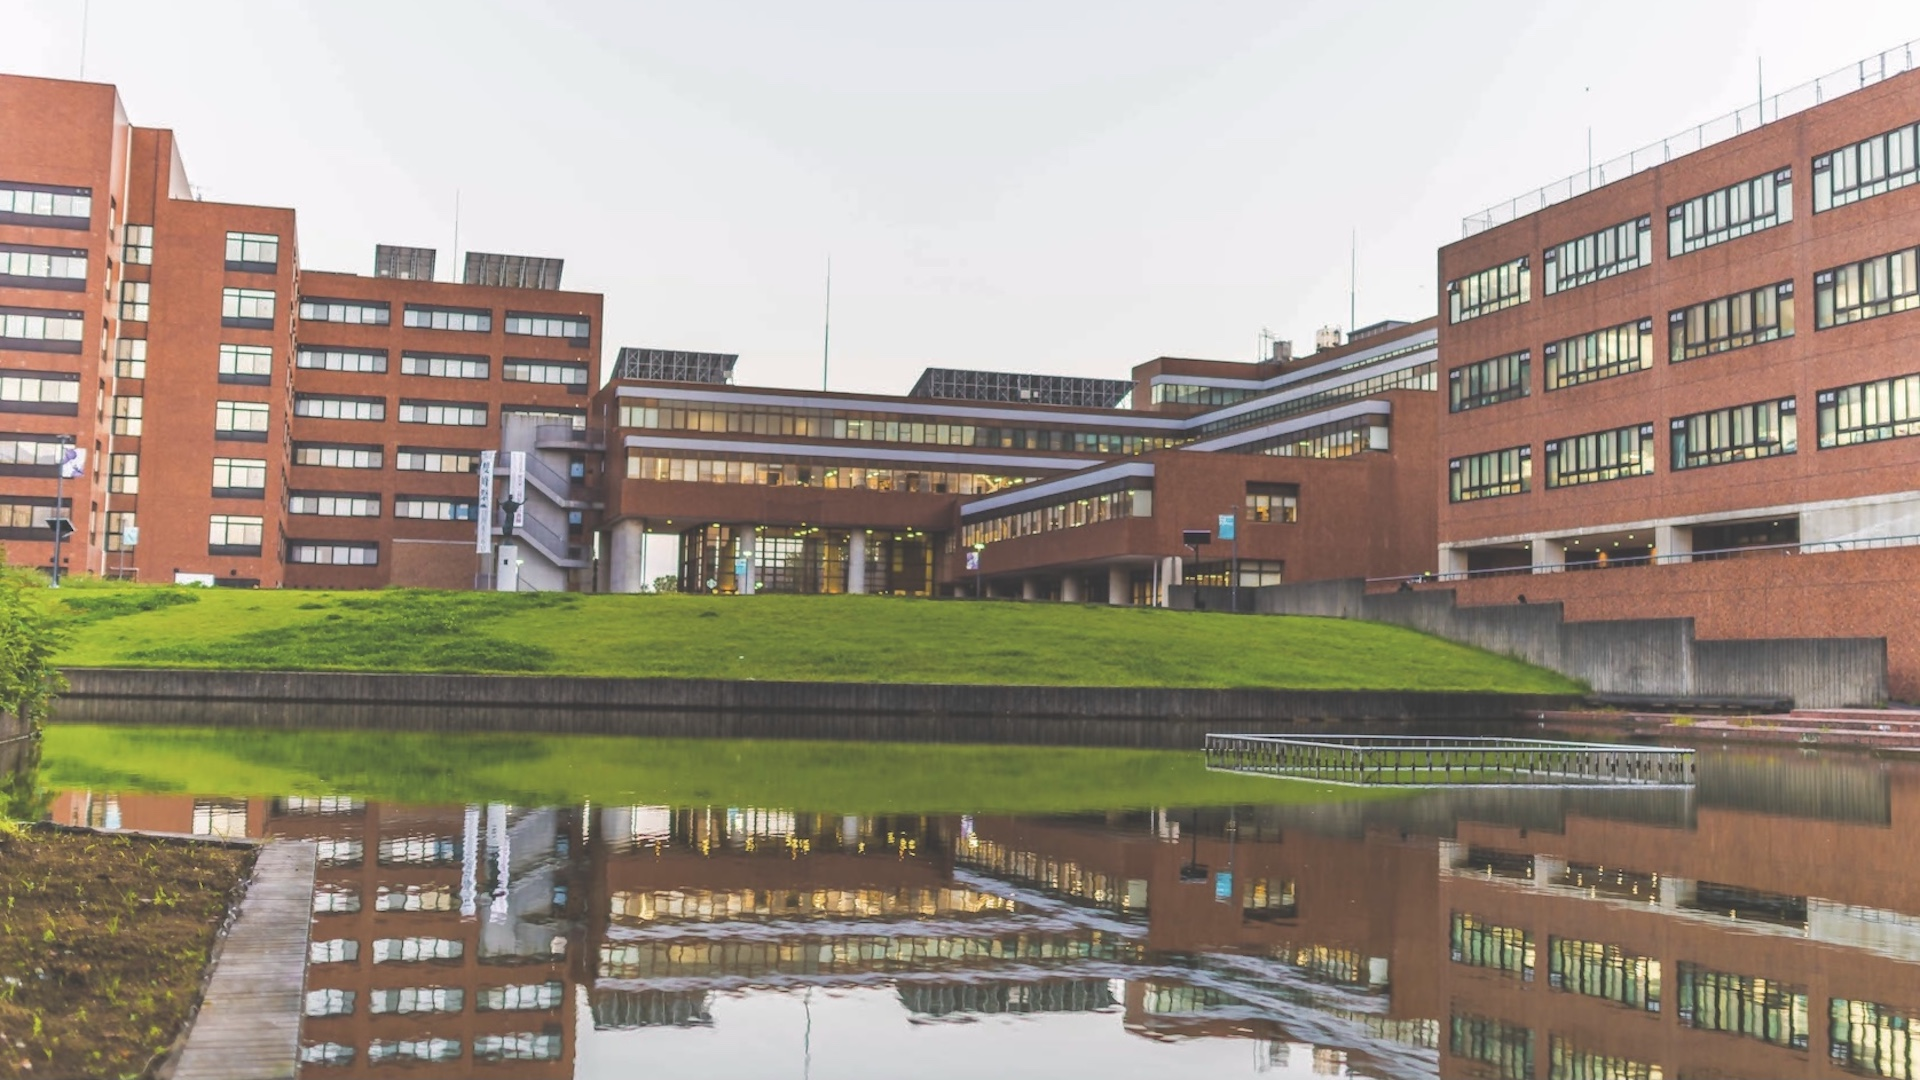
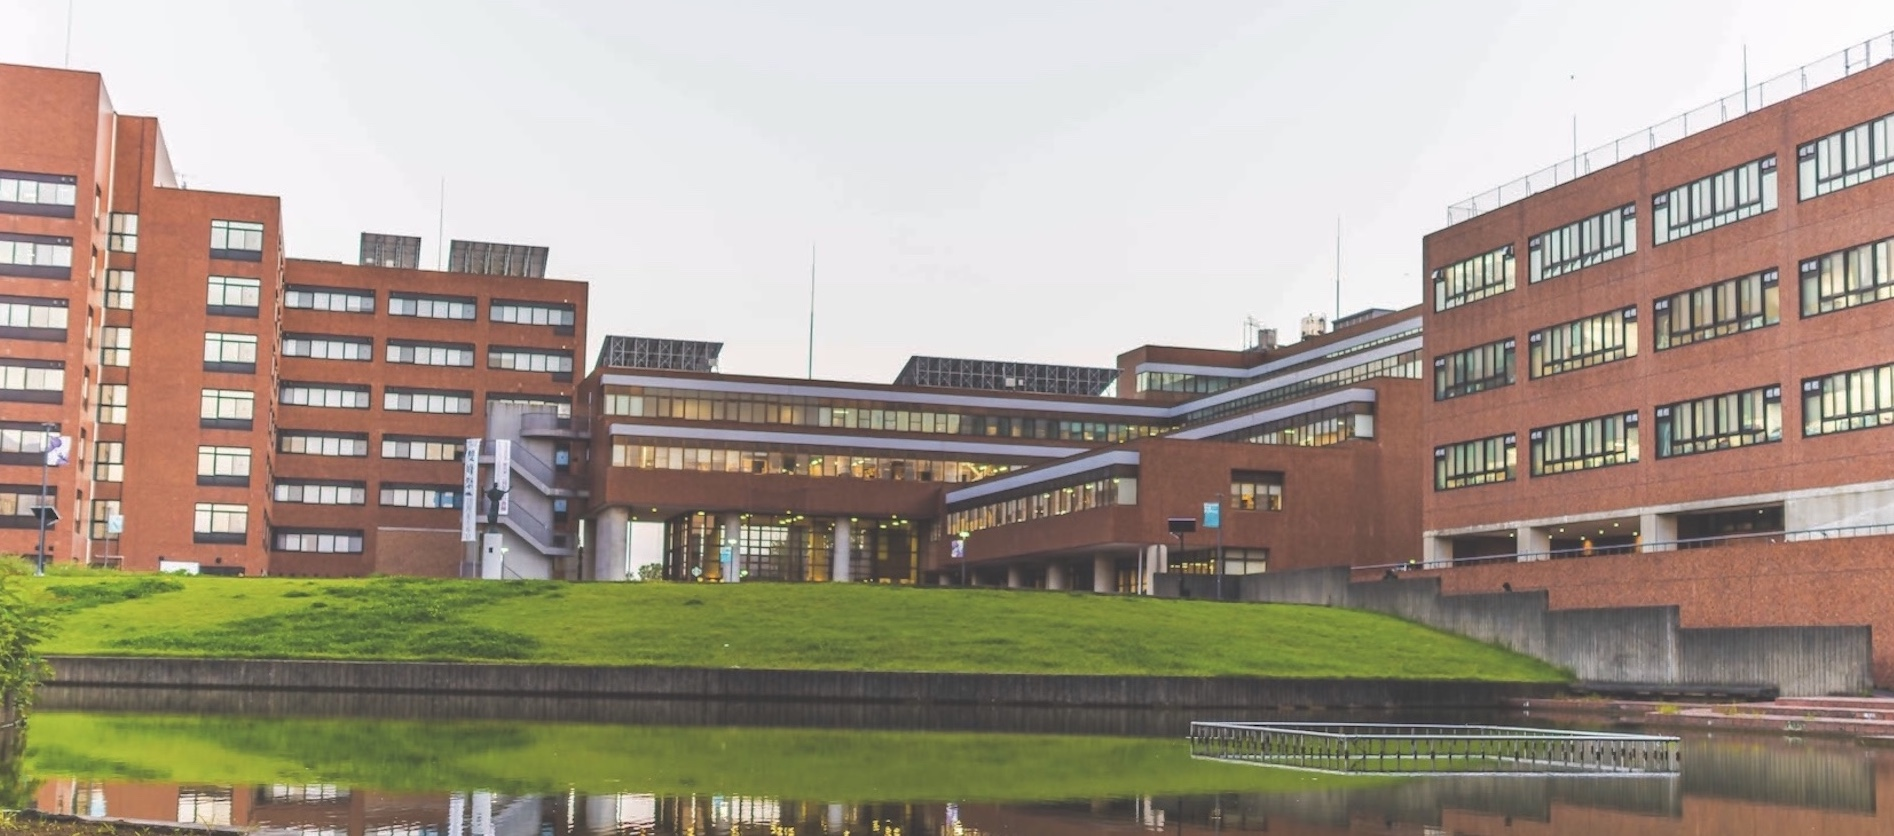
Fix image setting

diff --git a/pages/about/utsukuba.vue b/pages/about/utsukuba.vue
@@ -21,12 +21,11 @@
 
     <section class="hero">
       <figure class="image is-2by1" v-if="$ua.isFromSmartphone()">
-        <img src="~/assets/wallpapers/1440px-Fountain,_Univ._of_Tsukuba.jpg" style="object-fit: cover; filter: saturate(150%) brightness(100%) contrast(50%);">
+        <img src="~/assets/wallpapers/DSC_3942.jpg" style="object-fit: cover; filter: saturate(150%) brightness(120%);">
       </figure>
       <figure class="image is-3by1" v-else>
-        <img src="~/assets/wallpapers/1440px-Fountain,_Univ._of_Tsukuba.jpg" style="object-fit: cover; filter: saturate(150%) brightness(100%) contrast(50%);">
+        <img src="~/assets/wallpapers/DSC_3942.jpg" style="object-fit: cover; filter: saturate(150%) brightness(120%);">
       </figure>
-      <p class="is-size-7 has-text-grey has-text-right"><a class="is-size-7 has-text-grey" href="//commons.wikimedia.org/wiki/User:Miyuki_Meinaka" title="User:Miyuki Meinaka">Miyuki Meinaka</a> - <span class="int-own-work has-text-grey is-size-7" :lang="$i18n.locale">投稿者自身による作品</span>, <a class="is-size-7 has-text-grey" href="https://creativecommons.org/licenses/by-sa/4.0" title="Creative Commons Attribution-Share Alike 4.0">CC 表示-継承 4.0</a>, <a class="is-size-7 has-text-grey" href="https://commons.wikimedia.org/w/index.php?curid=74724255">リンク</a></p>
     </section>
     
     <section class="section" id="tedxutsukuba">
@@ -36,10 +35,10 @@
 
     <section class="hero">
       <figure class="image is-2by1" v-if="$ua.isFromSmartphone()">
-        <img src="~/assets/wallpapers/tedxutsukubalive.jpg" style="object-fit: cover; filter: saturate(150%) contrast(50%);">
+        <img src="~/assets/wallpapers/tedxutsukubalive.jpg" style="object-fit: cover; filter: saturate(125%) brightness(110%) contrast(75%);">
       </figure>
       <figure class="image is-3by1" v-else>
-        <img src="~/assets/wallpapers/tedxutsukubalive.jpg" style="object-fit: cover; filter: saturate(150%) contrast(50%);">
+        <img src="~/assets/wallpapers/tedxutsukubalive.jpg" style="object-fit: cover; filter: saturate(125%) brightness(110%) contrast(75%);">
       </figure>
     </section>
 
